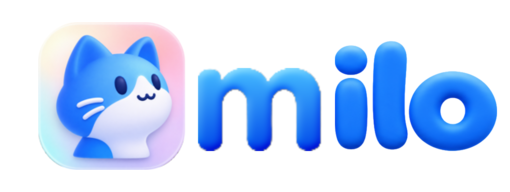
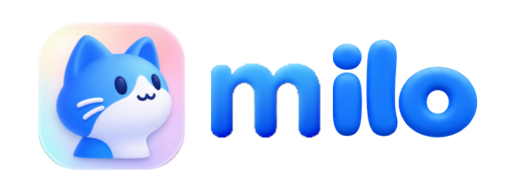
Refine the nav lockup, social links and footer

Changed region(s): [[0.3824, 0.1875, 1.0, 0.8125]]

diff --git a/site/src/index.html b/site/src/index.html
@@ -37,10 +37,7 @@
             <img class="brand-lockup" src="./images/milo-lockup.webp" width="510" height="192" alt="" fetchpriority="high">
             <h1 id="title" class="visually-hidden">milo</h1>
           </div>
-        <a class="source" href="https://github.com/mcc0x/milo">
-          <svg class="source-mark" viewBox="0 0 24 24" aria-hidden="true"><path d="M12 .297c-6.63 0-12 5.373-12 12 0 5.303 3.438 9.8 8.205 11.385.6.113.82-.258.82-.577 0-.285-.01-1.04-.015-2.04-3.338.724-4.042-1.61-4.042-1.61C4.422 18.07 3.633 17.7 3.633 17.7c-1.087-.744.084-.729.084-.729 1.205.084 1.838 1.236 1.838 1.236 1.07 1.835 2.809 1.305 3.495.998.108-.776.417-1.305.76-1.605-2.665-.3-5.466-1.332-5.466-5.93 0-1.31.465-2.38 1.235-3.22-.135-.303-.54-1.523.105-3.176 0 0 1.005-.322 3.3 1.23.96-.267 1.98-.399 3-.405 1.02.006 2.04.138 3 .405 2.28-1.552 3.285-1.23 3.285-1.23.645 1.653.24 2.873.12 3.176.765.84 1.23 1.91 1.23 3.22 0 4.61-2.805 5.625-5.475 5.92.42.36.81 1.096.81 2.22 0 1.606-.015 2.896-.015 3.286 0 .315.21.69.825.57C20.565 22.092 24 17.592 24 12.297c0-6.627-5.373-12-12-12"/></svg>
-          <b>milo is open source</b>
-        </a>
+        <nav class="social-links" aria-label="Social links"><a class="social-link" href="https://github.com/mcc0x/milo" aria-label="milo on GitHub"><svg class="source-mark" viewBox="0 0 24 24" aria-hidden="true"><path d="M12 .297c-6.63 0-12 5.373-12 12 0 5.303 3.438 9.8 8.205 11.385.6.113.82-.258.82-.577 0-.285-.01-1.04-.015-2.04-3.338.724-4.042-1.61-4.042-1.61C4.422 18.07 3.633 17.7 3.633 17.7c-1.087-.744.084-.729.084-.729 1.205.084 1.838 1.236 1.838 1.236 1.07 1.835 2.809 1.305 3.495.998.108-.776.417-1.305.76-1.605-2.665-.3-5.466-1.332-5.466-5.93 0-1.31.465-2.38 1.235-3.22-.135-.303-.54-1.523.105-3.176 0 0 1.005-.322 3.3 1.23.96-.267 1.98-.399 3-.405 1.02.006 2.04.138 3 .405 2.28-1.552 3.285-1.23 3.285-1.23.645 1.653.24 2.873.12 3.176.765.84 1.23 1.91 1.23 3.22 0 4.61-2.805 5.625-5.475 5.92.42.36.81 1.096.81 2.22 0 1.606-.015 2.896-.015 3.286 0 .315.21.69.825.57C20.565 22.092 24 17.592 24 12.297c0-6.627-5.373-12-12-12"/></svg></a><a class="social-link" href="https://x.com/0xmcc" aria-label="Follow 0xmcc on X"><svg viewBox="0 0 24 24" aria-hidden="true"><path d="M18.9 2H22l-6.8 7.8L23.2 22h-6.3L12 14.6 5.5 22H2.3l7.4-8.5L.8 2h6.5l4.5 6.8L18.9 2Zm-1.1 18h1.7L6.3 3.9H4.5L17.8 20Z"/></svg></a></nav>
         </header>
         <div class="intro">
           <div class="intro-copy">
@@ -98,9 +95,12 @@
           </div>
         </div>
         <div class="demo-footer">
-          <p class="caption" id="caption" aria-hidden="true"></p>
-          <button class="demo-playback" id="demo-playback" type="button" aria-controls="demo" hidden>Pause demo</button>
+          <button class="caption-toggle" id="demo-playback" type="button" aria-controls="demo" aria-label="Pause demo" aria-pressed="false" title="Pause demo"><span class="caption" id="caption" aria-hidden="true"></span></button>
         </div>
+        <footer class="site-footer"><a class="source" href="https://github.com/mcc0x/milo">
+          <svg class="source-mark" viewBox="0 0 24 24" aria-hidden="true"><path d="M12 .297c-6.63 0-12 5.373-12 12 0 5.303 3.438 9.8 8.205 11.385.6.113.82-.258.82-.577 0-.285-.01-1.04-.015-2.04-3.338.724-4.042-1.61-4.042-1.61C4.422 18.07 3.633 17.7 3.633 17.7c-1.087-.744.084-.729.084-.729 1.205.084 1.838 1.236 1.838 1.236 1.07 1.835 2.809 1.305 3.495.998.108-.776.417-1.305.76-1.605-2.665-.3-5.466-1.332-5.466-5.93 0-1.31.465-2.38 1.235-3.22-.135-.303-.54-1.523.105-3.176 0 0 1.005-.322 3.3 1.23.96-.267 1.98-.399 3-.405 1.02.006 2.04.138 3 .405 2.28-1.552 3.285-1.23 3.285-1.23.645 1.653.24 2.873.12 3.176.765.84 1.23 1.91 1.23 3.22 0 4.61-2.805 5.625-5.475 5.92.42.36.81 1.096.81 2.22 0 1.606-.015 2.896-.015 3.286 0 .315.21.69.825.57C20.565 22.092 24 17.592 24 12.297c0-6.627-5.373-12-12-12"/></svg>
+          <b>milo is open source</b>
+        </a></footer>
       </section>
     </main>
   </body>

diff --git a/site/src/style.css b/site/src/style.css
@@ -181,3 +181,16 @@ h1 {
 @media (prefers-reduced-motion: reduce) {
   .install button, .source { transition: none; }
 }
+
+/* Center the visible lockup, not its transparent canvas, on the icon row. */
+.brand-lockup { transform: translateY(0.2375%); }
+.social-links { display: flex; align-items: center; gap: .35rem; }
+.social-link { display: grid; place-items: center; width: 44px; height: 44px; color: var(--ink); border-radius: .65rem; }
+.social-link svg { display: block; width: 22px; height: 22px; fill: currentColor; }
+.social-link:hover { background: #ffffff55; }
+.demo-footer { display: flex; justify-content: center; margin-block: .35rem auto; }
+.caption-toggle { appearance: none; border: 0; padding: 0; background: transparent; color: inherit; font: inherit; cursor: pointer; border-radius: .25rem; }
+.caption-toggle .caption { display: block; text-align: center; }
+.caption-toggle:disabled { cursor: default; opacity: 1; }
+.site-footer { display: flex; justify-content: center; padding-top: .6rem; }
+.site-footer .source { font-size: .875rem; }

diff --git a/site/src/main.ts b/site/src/main.ts
@@ -74,7 +74,10 @@ function scheduleCue() {
 }
 
 function syncPlayback() {
-  playback.hidden = reduceMotion.matches;
+  playback.disabled = reduceMotion.matches;
+  playback.setAttribute('aria-label', reduceMotion.matches ? 'Demo paused for reduced motion' : userPaused ? 'Resume demo' : 'Pause demo');
+  playback.title = playback.getAttribute('aria-label')!;
+  playback.setAttribute('aria-pressed', String(userPaused || reduceMotion.matches));
   if (userPaused || document.hidden || reduceMotion.matches) {
     if (startedAt !== undefined) {
       elapsed = performance.now() - startedAt;
@@ -109,7 +112,6 @@ function syncPlayback() {
 
 playback.addEventListener('click', () => {
   userPaused = !userPaused;
-  playback.textContent = userPaused ? 'Resume demo' : 'Pause demo';
   syncPlayback();
 });
 reduceMotion.addEventListener('change', syncPlayback);
